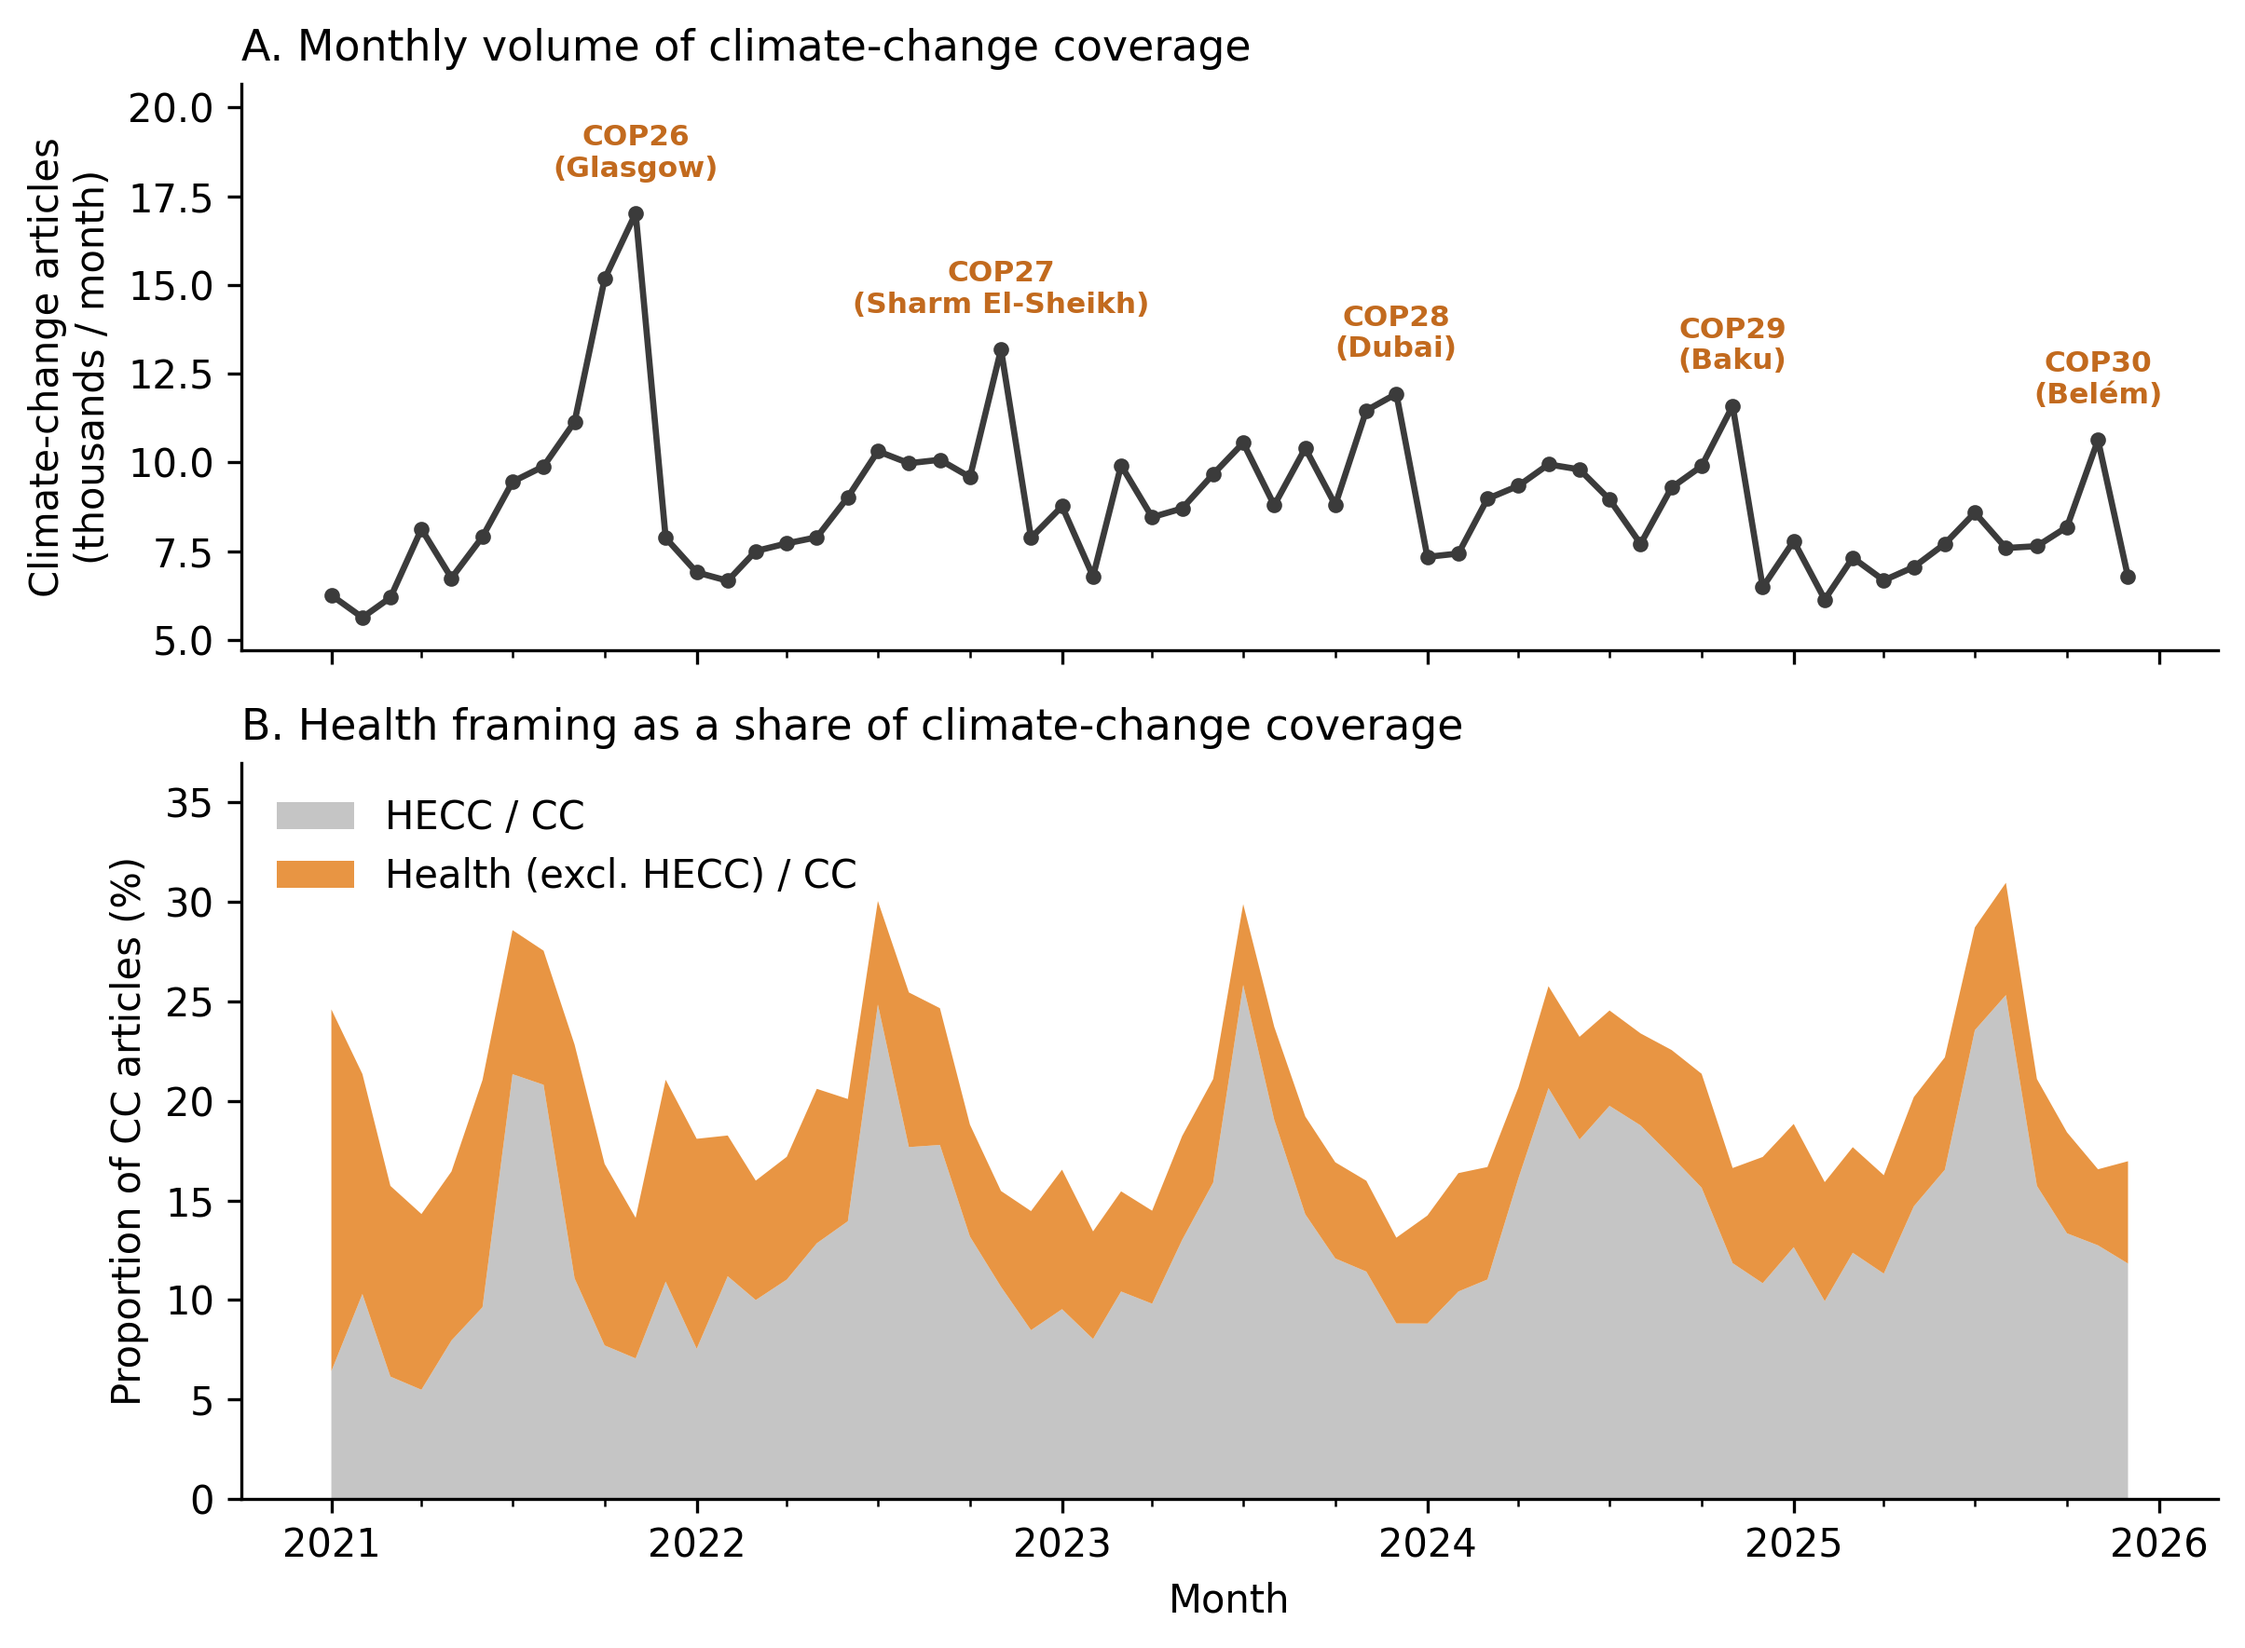
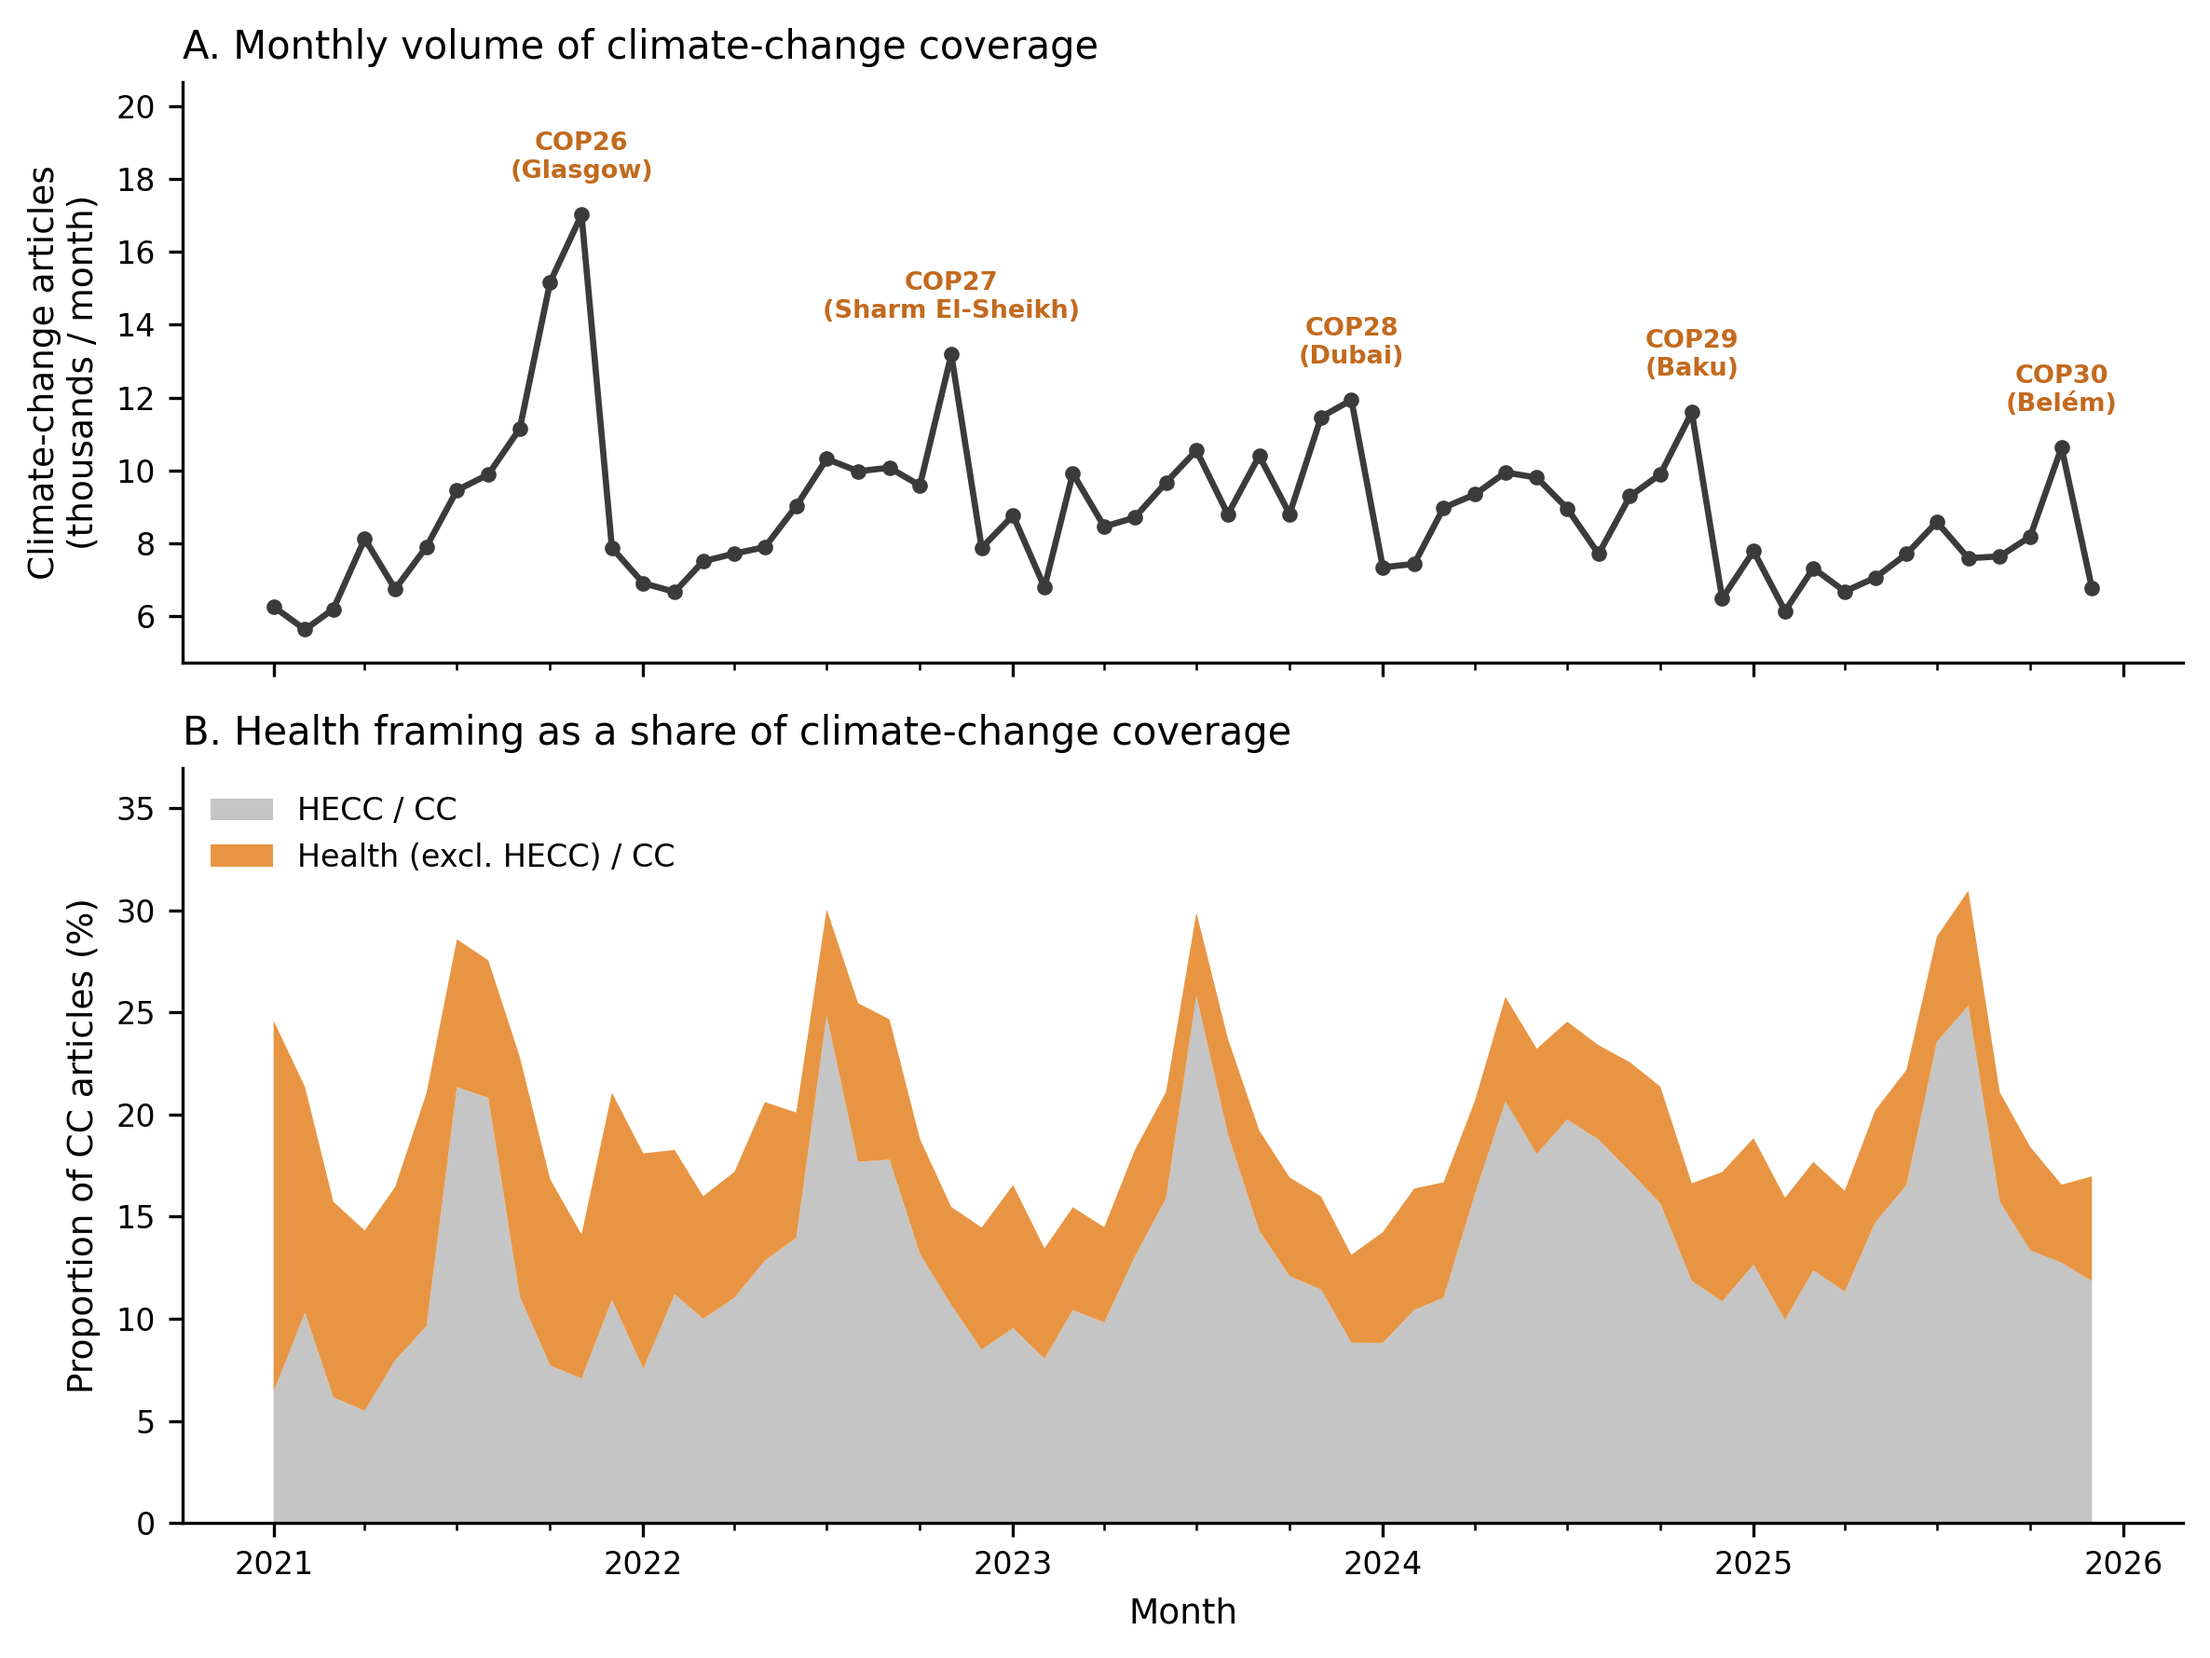
shrink yearly_trends figure text for tighter layout

diff --git a/analysis/plot_yearly_trends.py b/analysis/plot_yearly_trends.py
@@ -41,6 +41,15 @@ def load_monthly() -> pd.DataFrame:
 def main() -> None:
     m = load_monthly()
 
+    plt.rcParams.update({
+        "font.size": 9,
+        "axes.labelsize": 9,
+        "axes.titlesize": 10,
+        "xtick.labelsize": 8,
+        "ytick.labelsize": 8,
+        "legend.fontsize": 8,
+    })
+
     fig, (ax_top, ax_bot) = plt.subplots(
         2, 1, figsize=(8, 6), sharex=True, gridspec_kw={"height_ratios": [1, 1.3]}
     )
@@ -48,7 +57,7 @@ def main() -> None:
     # Panel A: monthly CC counts, y-axis not from zero
     ax_top.plot(m.index, m["n_cc"] / 1000, color="#3B3B3B", lw=1.6, marker="o", markersize=3)
     ax_top.set_ylabel("Climate-change articles\n(thousands / month)")
-    ax_top.set_title("A. Monthly volume of climate-change coverage", loc="left", fontsize=11)
+    ax_top.set_title("A. Monthly volume of climate-change coverage", loc="left")
     ax_top.spines[["top", "right"]].set_visible(False)
     lo, hi = m["n_cc"].min() / 1000, m["n_cc"].max() / 1000
     pad = 0.08 * (hi - lo)
@@ -72,7 +81,7 @@ def main() -> None:
             textcoords="offset points",
             ha="center",
             va="bottom",
-            fontsize=7.5,
+            fontsize=6.5,
             color="#C26A1E",
             fontweight="bold",
         )
@@ -90,7 +99,7 @@ def main() -> None:
     ax_bot.set_ylabel("Proportion of CC articles (%)")
     ax_bot.set_xlabel("Month")
     ax_bot.set_title(
-        "B. Health framing as a share of climate-change coverage", loc="left", fontsize=11
+        "B. Health framing as a share of climate-change coverage", loc="left"
     )
     ax_bot.legend(frameon=False, loc="upper left")
     ax_bot.spines[["top", "right"]].set_visible(False)
